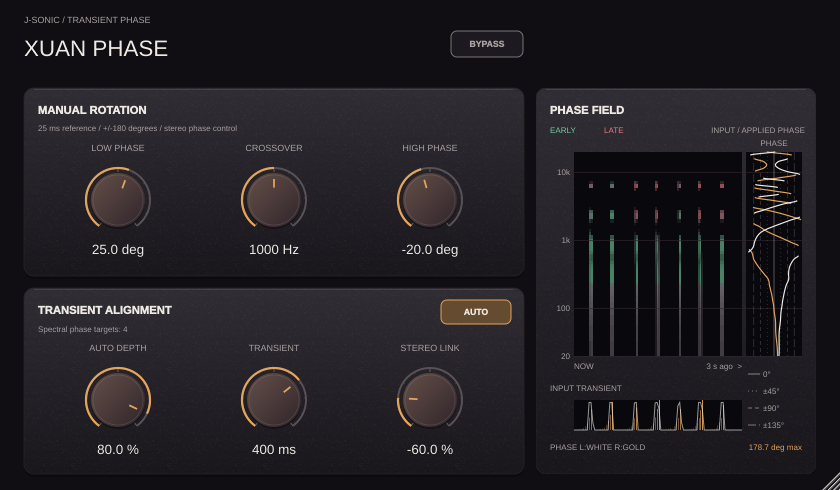
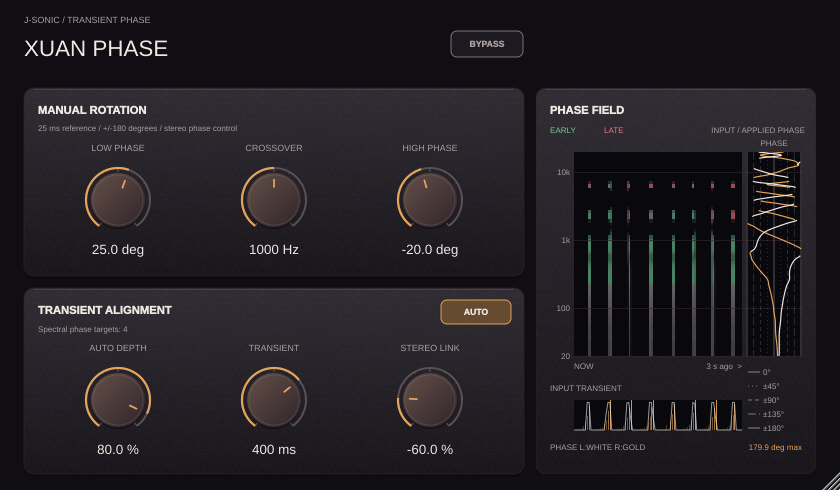
Clarify Xuan wrapped phase limits and verify curve bounds

Changed region(s): [[0.681, 0.3061, 0.9595, 0.7347], [0.681, 0.7347, 0.9286, 0.8878]]

diff --git a/projects/XuanPhase/Source/PhaseMeter.cpp b/projects/XuanPhase/Source/PhaseMeter.cpp
@@ -6,7 +6,7 @@ const auto early = juce::Colour (0xff72ce9c), late = juce::Colour (0xfff07880);
 }
 XuanPhaseMeter::XuanPhaseMeter (XuanPhaseProcessor& p) : processor (p)
 {
-    setTooltip ("Shows three seconds of input transients moving left to right, with early bands green, late bands red, and applied left phase in white and right phase in gold against degree guides.");
+    setTooltip ("Shows three seconds of input transients moving left to right, with early bands green, late bands red, and applied left phase in white and right phase in gold wrapped to plus or minus 180 degrees.");
     lastColumn = lastInput = juce::Time::getMillisecondCounterHiRes();
 }
 XuanPhaseMeter::~XuanPhaseMeter() { stopTimer(); processor.setMeterVisible (false); }
@@ -62,6 +62,48 @@ void XuanPhaseMeter::timerCallback()
         append (spectrum); lastColumn = now-std::fmod (now-lastColumn, step); repaint();
     }
 }
+float XuanPhaseMeter::rotationDegrees (const xuan::RotationFrame& frame, int channel, int row) noexcept
+{
+    const auto offset = channel == 0 ? size_t (0) : size_t (2*xuan::meterBins+1);
+    const auto index = static_cast<size_t> (row);
+    const auto angle = std::atan2 (frame[offset+xuan::meterBins+index], frame[offset+index]);
+    return std::isfinite (angle) ? std::clamp (angle*180/juce::MathConstants<float>::pi, -180.f, 180.f) : 0.f;
+}
+juce::Path XuanPhaseMeter::rotationPath (const xuan::RotationFrame& frame, int channel, juce::Rectangle<float> phase)
+{
+    const auto phaseX = [&] (float degrees) { return phase.getCentreX()+std::clamp (degrees, -180.f, 180.f)/180*(phase.getWidth()*.5f-1); };
+    juce::Path response;
+    std::array<float, xuan::meterBins> xs {}, angles {};
+    for (int row = 0; row < xuan::meterBins; ++row)
+    {
+        const auto index = static_cast<size_t> (row);
+        angles[index] = rotationDegrees (frame, channel, row)*juce::MathConstants<float>::pi/180;
+        xs[index] = phaseX (angles[index]*180/juce::MathConstants<float>::pi);
+    }
+    const auto wrapped = [&] (int i) { return std::abs (angles[static_cast<size_t> (i+1)]-angles[static_cast<size_t> (i)]) > juce::MathConstants<float>::pi; };
+    const auto tangent = [&] (int i)
+    {
+        if (i == 0) return wrapped (0) ? 0.f : xs[1]-xs[0];
+        if (i == xuan::meterBins-1) return wrapped (i-1) ? 0.f : xs[static_cast<size_t> (i)]-xs[static_cast<size_t> (i-1)];
+        if (wrapped (i-1) || wrapped (i)) return 0.f;
+        const auto before = xs[static_cast<size_t> (i)]-xs[static_cast<size_t> (i-1)];
+        const auto after = xs[static_cast<size_t> (i+1)]-xs[static_cast<size_t> (i)];
+        return before*after > 0 ? 2*before*after/(before+after) : 0.f;
+    };
+    // Shape-preserving cubic interpolation rounds visual corners without
+    // overshooting measured extrema or drawing across the +/-180 degree seam.
+    const auto dy = phase.getHeight()/(xuan::meterBins-1);
+    response.startNewSubPath (xs[0], phase.getBottom());
+    for (int i = 0; i < xuan::meterBins-1; ++i)
+    {
+        const auto y = phase.getBottom()-i*dy, nextY = y-dy;
+        if (wrapped (i)) response.startNewSubPath (xs[static_cast<size_t> (i+1)], nextY);
+        else response.cubicTo (xs[static_cast<size_t> (i)]+tangent (i)/3, y-dy/3,
+                               xs[static_cast<size_t> (i+1)]-tangent (i+1)/3, nextY+dy/3,
+                               xs[static_cast<size_t> (i+1)], nextY);
+    }
+    return response;
+}
 void XuanPhaseMeter::paint (juce::Graphics& g)
 {
     drawPanel (g, getLocalBounds().toFloat());
@@ -86,11 +128,11 @@ void XuanPhaseMeter::paint (juce::Graphics& g)
     }
     g.setColour (secondary); g.drawText ("PHASE", 210, 48, 56, 14, juce::Justification::centred);
     const auto phaseX = [&] (float degrees) { return phase.getCentreX()+degrees/180*(phase.getWidth()*.5f-1); };
-    // A four-row key keeps degree labels legible in the 56 px track; paired
+    // A five-row key labels the full +/-180 degree range in the 56 px track; paired
     // positive/negative guides share a dash pattern and the same +/- label.
     const auto guide = [&] (juce::Line<float> line, int index)
     {
-        if (index == 0) g.drawLine (line, .8f);
+        if (index == 0 || index == 4) g.drawLine (line, .8f);
         else
         {
             const float dashes[] {static_cast<float> (index == 1 ? 1 : index == 2 ? 4 : 8), 3};
@@ -98,59 +140,32 @@ void XuanPhaseMeter::paint (juce::Graphics& g)
         }
     };
     g.setFont (juce::FontOptions (9));
-    for (int index = 0; index < 4; ++index)
+    for (int index = 0; index < 5; ++index)
     {
         const auto degrees = 45*index;
-        g.setColour (secondary.withAlpha (index == 0 ? .65f : .35f));
+        g.setColour (secondary.withAlpha ((index == 0 || index == 4) ? .65f : .35f));
         for (int sign : {-1, 1})
         {
             if (index == 0 && sign == -1) continue;
             const auto x = phaseX (static_cast<float> (sign*degrees));
             guide ({x, phase.getY(), x, phase.getBottom()}, index);
         }
-        const auto y = 280.f+17*index;
+        const auto y = 278.f+14*index;
         g.setColour (secondary); guide ({212, y+6, 224, y+6}, index);
         const auto text = (index == 0 ? juce::String ("0") : juce::String::fromUTF8 ("±")+juce::String (degrees))
                         +juce::String::fromUTF8 ("°");
         g.drawText (text, 227, juce::roundToInt (y), 39, 13, juce::Justification::centredLeft);
     }
     float maximum = 0;
+    g.saveState(); g.reduceClipRegion (phase.toNearestInt());
     for (int channel : {1, 0})
     {
-        juce::Path response;
-        const auto offset = channel == 0 ? size_t (0) : size_t (2*xuan::meterBins+1);
-        std::array<float, xuan::meterBins> xs {}, angles {};
+        const auto response = rotationPath (rotation, channel, phase);
         for (int row = 0; row < xuan::meterBins; ++row)
-        {
-            const auto index = static_cast<size_t> (row);
-            angles[index] = std::atan2 (rotation[offset+xuan::meterBins+index], rotation[offset+index]);
-            xs[index] = phaseX (angles[index]*180/juce::MathConstants<float>::pi);
-            maximum = std::max (maximum, std::abs (angles[index])*180/juce::MathConstants<float>::pi);
-        }
-        const auto wrapped = [&] (int i) { return std::abs (angles[static_cast<size_t> (i+1)]-angles[static_cast<size_t> (i)]) > juce::MathConstants<float>::pi; };
-        const auto tangent = [&] (int i)
-        {
-            if (i == 0) return wrapped (0) ? 0.f : xs[1]-xs[0];
-            if (i == xuan::meterBins-1) return wrapped (i-1) ? 0.f : xs[static_cast<size_t> (i)]-xs[static_cast<size_t> (i-1)];
-            if (wrapped (i-1) || wrapped (i)) return 0.f;
-            const auto before = xs[static_cast<size_t> (i)]-xs[static_cast<size_t> (i-1)];
-            const auto after = xs[static_cast<size_t> (i+1)]-xs[static_cast<size_t> (i)];
-            return before*after > 0 ? 2*before*after/(before+after) : 0.f;
-        };
-        // Shape-preserving cubic interpolation rounds visual corners without
-        // overshooting measured extrema or drawing across the +/-180 degree seam.
-        const auto dy = phase.getHeight()/(xuan::meterBins-1);
-        response.startNewSubPath (xs[0], phase.getBottom());
-        for (int i = 0; i < xuan::meterBins-1; ++i)
-        {
-            const auto y = phase.getBottom()-i*dy, nextY = y-dy;
-            if (wrapped (i)) response.startNewSubPath (xs[static_cast<size_t> (i+1)], nextY);
-            else response.cubicTo (xs[static_cast<size_t> (i)]+tangent (i)/3, y-dy/3,
-                                   xs[static_cast<size_t> (i+1)]-tangent (i+1)/3, nextY+dy/3,
-                                   xs[static_cast<size_t> (i+1)], nextY);
-        }
+            maximum = std::max (maximum, std::abs (rotationDegrees (rotation, channel, row)));
         g.setColour (channel == 0 ? foreground : amber); g.strokePath (response, juce::PathStrokeType (1.2f));
     }
+    g.restoreState();
     g.setColour (secondary); g.drawText ("NOW", 38, 271, 60, 15, juce::Justification::centredLeft);
     g.drawText ("3 s ago  >", 124, 271, 82, 15, juce::Justification::centredRight);
     g.drawText ("INPUT TRANSIENT", 14, 292, 192, 16, juce::Justification::centredLeft);

diff --git a/projects/XuanPhase/Tests/ProcessorTests.cpp b/projects/XuanPhase/Tests/ProcessorTests.cpp
@@ -171,9 +171,50 @@ void stereoTests (const juce::File& directory, const std::vector<float>& hit, co
            "live channel analysis and FIR handoff separate repeated channel transients at negative Link");
 }
 
+void phaseDisplayTests()
+{
+    const juce::Rectangle<float> track {210, 64, 56, 204};
+    xuan::RotationFrame frame {};
+    for (int ch = 0; ch < 2; ++ch)
+    {
+        const auto offset = ch == 0 ? size_t (0) : size_t (2*xuan::meterBins+1);
+        for (int row = 0; row < xuan::meterBins; ++row)
+        {
+            const auto degrees = std::array<float, 16> {0, 45, -45, 90, -90, 135, -135, 179, -179, 180, -180, 200, -200, 540, -540, 900}[static_cast<size_t> (row%16)]*(ch == 0 ? 1.f : -1.f);
+            const auto expected = std::polar (1.f, degrees*juce::MathConstants<float>::pi/180);
+            frame[offset+static_cast<size_t> (row)] = expected.real();
+            frame[offset+xuan::meterBins+static_cast<size_t> (row)] = expected.imag();
+            const auto shown = XuanPhaseMeter::rotationDegrees (frame, ch, row);
+            check (std::isfinite (shown) && std::abs (shown) <= 180,
+                   "phase readout stays within +/-180 degrees even for multi-turn rotations");
+            check (std::abs (std::polar (1.f, shown*juce::MathConstants<float>::pi/180)-expected) < 2e-5,
+                   "display wraps multi-turn phase rather than clamping the underlying rotation");
+        }
+        const auto path = XuanPhaseMeter::rotationPath (frame, ch, track);
+        juce::PathFlatteningIterator lines (path, juce::AffineTransform(), .001f);
+        int segments = 0;
+        while (lines.next())
+        {
+            ++segments;
+            check (lines.x1 >= track.getX() && lines.x1 <= track.getRight()
+                   && lines.x2 >= track.getX() && lines.x2 <= track.getRight(),
+                   "smoothed phase curve never overshoots the +/-180 degree track edges");
+        }
+        check (segments > 0, "bound checks cover rendered cubic segments");
+        for (int row = 0; row < xuan::meterBins; ++row)
+        {
+            const auto value = std::polar (1.f, (row%2 == 0 ? 179.f : -179.f)*juce::MathConstants<float>::pi/180);
+            frame[offset+static_cast<size_t> (row)] = value.real(); frame[offset+xuan::meterBins+static_cast<size_t> (row)] = value.imag();
+        }
+        const auto seam = XuanPhaseMeter::rotationPath (frame, ch, track);
+        juce::PathFlatteningIterator seams (seam);
+        check (! seams.next(), "phase wrap crossings split the path instead of drawing across the display");
+    }
+}
 void dspTests (const juce::File& directory)
 {
     directory.createDirectory();
+    phaseDisplayTests();
     XuanPhaseProcessor saved, restored;
     set (saved, "link", -70);
     set (saved, "depth", -75); set (saved, "transient", 700);

diff --git a/projects/XuanPhase/Tests/generate_report.py b/projects/XuanPhase/Tests/generate_report.py
@@ -282,7 +282,7 @@ The native editor test streams repeated dispersed hits through the real processo
 and worker, observes transient events and both signed timing directions, and
 checks that non-empty image columns move from left to right across the
 three-second history. The history is 168 px wide beside a 56 px applied-phase
-track, with styled guides and a key for 0°, ±45°, ±90°, and ±135°. Green indicates an
+track, with styled guides and a key for 0°, ±45°, ±90°, ±135°, and the ±180° boundaries. Green indicates an
 early input band and red a late input band. The white left-channel and gold right-channel curves use the measured
 complex FIR responses: tests compare it with an independent DFT, ensure queued
 responses do not appear before audio applies them, verify updates after handoff,
@@ -291,6 +291,11 @@ with Auto Off while the meter is visible, and stops when the editor is hidden.
 The meter stays inside the editor at both scaling limits. Its phase trace uses
 shape-preserving cubic interpolation between measured points, without overshoot,
 and splits at the ±180° wrap instead of drawing a line across the entire track.
+Additional tests feed ±180°, ±200°, ±540°, and +900° responses to the actual
+plot helper, check that wrapping preserves their complex phase, flatten the
+cubic curves to verify they remain within the track, and reject lines joining
++179° directly to −179°. The plot is clipped to the labeled ±180° limits;
+the DSP retains the full unwrapped delay correction.
 Stereo Link sits at the far right of the three-knob Auto row beside Transient.
 
 ![Native editor with live transient history](../../Previews/xuan-phase.png)

diff --git a/projects/XuanPhase/Source/PhaseMeter.h b/projects/XuanPhase/Source/PhaseMeter.h
@@ -18,6 +18,8 @@ public:
     int historySize() const noexcept { return columnsWritten; }
     const juce::Image& historyImage() const noexcept { return history; }
     const xuan::RotationFrame& currentRotation() const noexcept { return rotation; }
+    static float rotationDegrees (const xuan::RotationFrame&, int channel, int row) noexcept;
+    static juce::Path rotationPath (const xuan::RotationFrame&, int channel, juce::Rectangle<float>);
     static juce::Colour timingColour (float milliseconds, float energy) noexcept;
 private:
     static constexpr int columns = 90;

diff --git a/projects/XuanPhase/Tests/Reports/REPORT.md b/projects/XuanPhase/Tests/Reports/REPORT.md
@@ -181,7 +181,7 @@ The native editor test streams repeated dispersed hits through the real processo
 and worker, observes transient events and both signed timing directions, and
 checks that non-empty image columns move from left to right across the
 three-second history. The history is 168 px wide beside a 56 px applied-phase
-track, with styled guides and a key for 0°, ±45°, ±90°, and ±135°. Green indicates an
+track, with styled guides and a key for 0°, ±45°, ±90°, ±135°, and the ±180° boundaries. Green indicates an
 early input band and red a late input band. The white left-channel and gold right-channel curves use the measured
 complex FIR responses: tests compare it with an independent DFT, ensure queued
 responses do not appear before audio applies them, verify updates after handoff,
@@ -190,6 +190,11 @@ with Auto Off while the meter is visible, and stops when the editor is hidden.
 The meter stays inside the editor at both scaling limits. Its phase trace uses
 shape-preserving cubic interpolation between measured points, without overshoot,
 and splits at the ±180° wrap instead of drawing a line across the entire track.
+Additional tests feed ±180°, ±200°, ±540°, and +900° responses to the actual
+plot helper, check that wrapping preserves their complex phase, flatten the
+cubic curves to verify they remain within the track, and reject lines joining
++179° directly to −179°. The plot is clipped to the labeled ±180° limits;
+the DSP retains the full unwrapped delay correction.
 Stereo Link sits at the far right of the three-knob Auto row beside Transient.
 
 ![Native editor with live transient history](../../Previews/xuan-phase.png)

diff --git a/projects/XuanPhase/README.md b/projects/XuanPhase/README.md
@@ -96,13 +96,17 @@ remains unchanged, so genuine gaps in the input still appear dark.
 A small display hold makes short onsets visible without changing the audio detector.
 
 The **white left-channel** and **gold right-channel** curves in the 56 px track
-show applied rotation
-relative to the 25 ms reference, from −180° to +180° across its track. It is measured from the
-corresponding active FIR, including manual rotation, Auto Depth, response crossfades, and bypass;
+show applied rotation relative to the 25 ms reference, from −180° to +180°
+across the track. They are measured from the corresponding active FIR,
+including manual rotation, Auto Depth, response crossfades, and bypass;
 they do not jump ahead to an unapplied worker target. Guides mark 0°, ±45°,
-±90°, and ±135°, with matching line styles in the key below the track; positive rotation is right of center and negative is left.
+±90°, ±135°, and the ±180° boundaries, with matching line styles in the key
+below the track; positive rotation is right of center and negative is left.
 The history is 168 px wide, and the readout reports the largest absolute
-rotation. The lower strip shows input peak activity in white and detected
+rotation. The scale shows **wrapped phase**, so +200° appears as −160°;
+delay-based separation can span multiple turns in unwrapped phase. Curves are
+clipped to the ±180° track, and smoothing is checked against overshoot.
+The lower strip shows input peak activity in white and detected
 transient activity in amber.
 
 The meter shares the background spectral analysis. Fixed-size atomic snapshots

diff --git a/projects/XuanPhase/TOOLTIPS.md b/projects/XuanPhase/TOOLTIPS.md
@@ -10,4 +10,4 @@
 | Transient | Sets how quickly automatic phase correction releases after a transient, with longer times retaining it longer. |
 | Stereo Link | Links automatic correction at +100%, processes channels independently at 0%, and separates their transients toward -100%. |
 | Bypass | Bypasses phase processing while preserving the fixed 25 ms latency. |
-| Phase Field | Shows three seconds of input transients moving left to right, with early bands green, late bands red, and applied left phase in white and right phase in gold against degree guides. |
+| Phase Field | Shows three seconds of input transients moving left to right, with early bands green, late bands red, and applied left phase in white and right phase in gold wrapped to plus or minus 180 degrees. |
